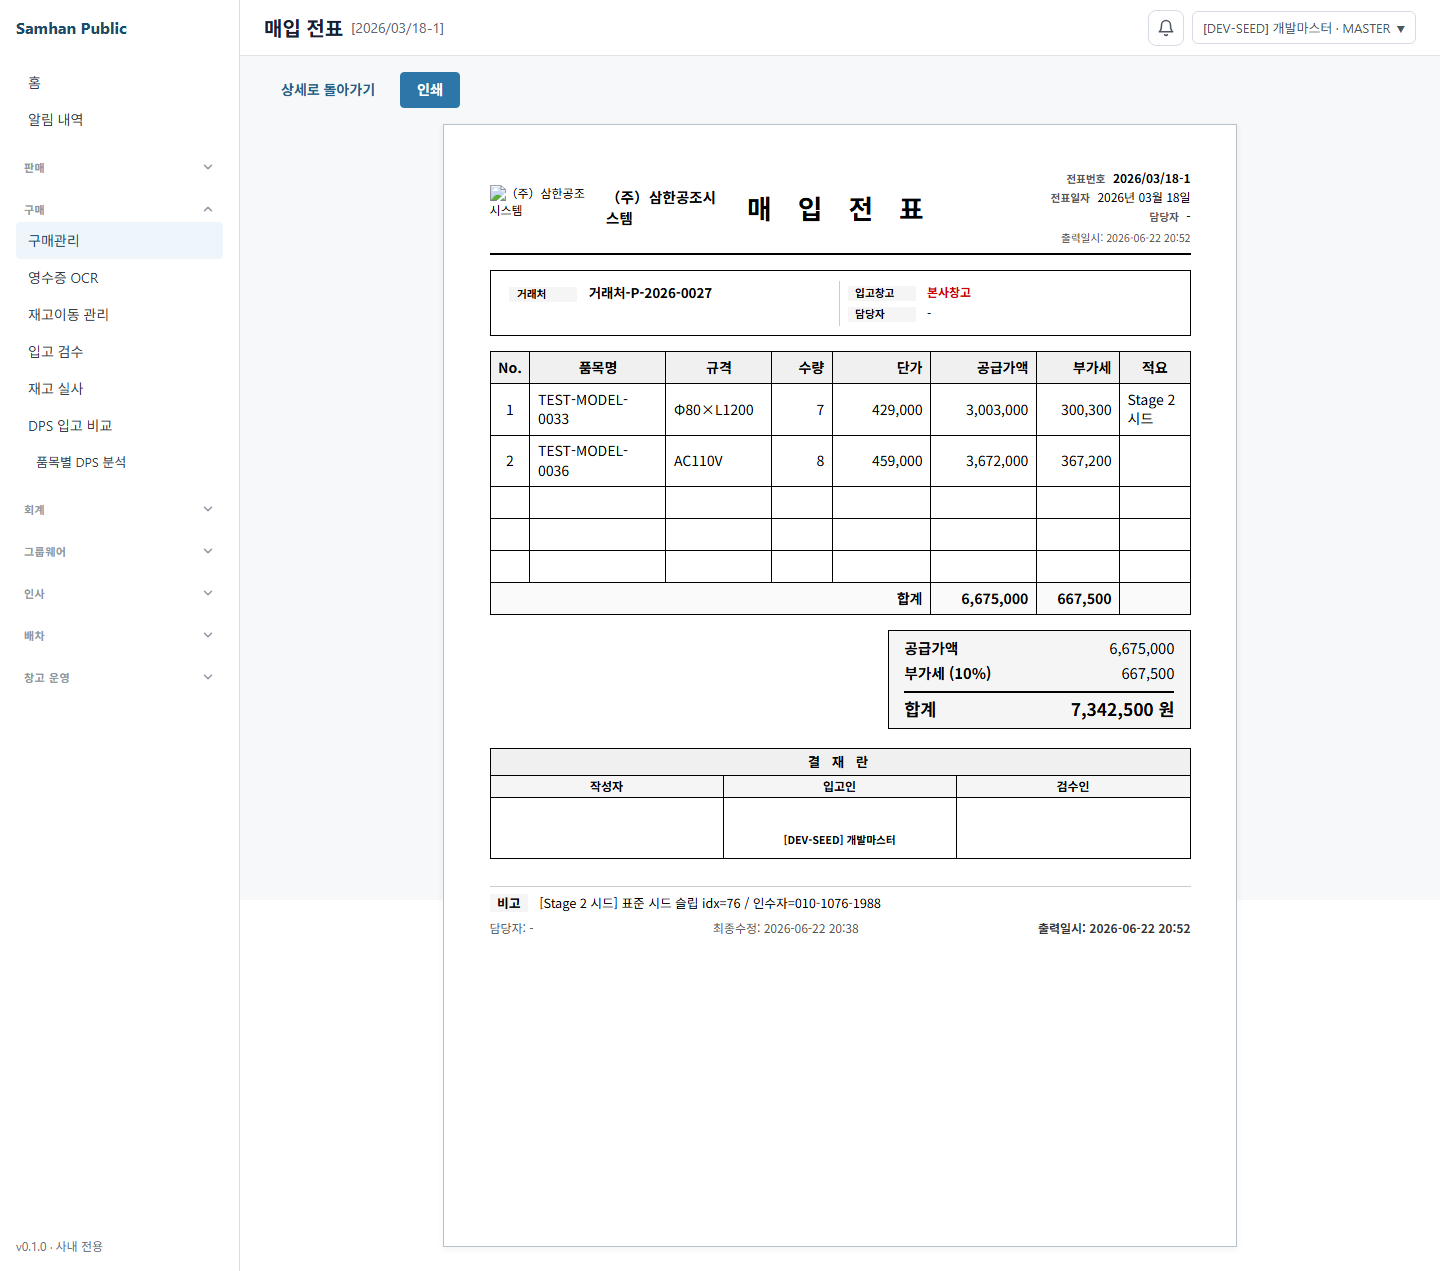
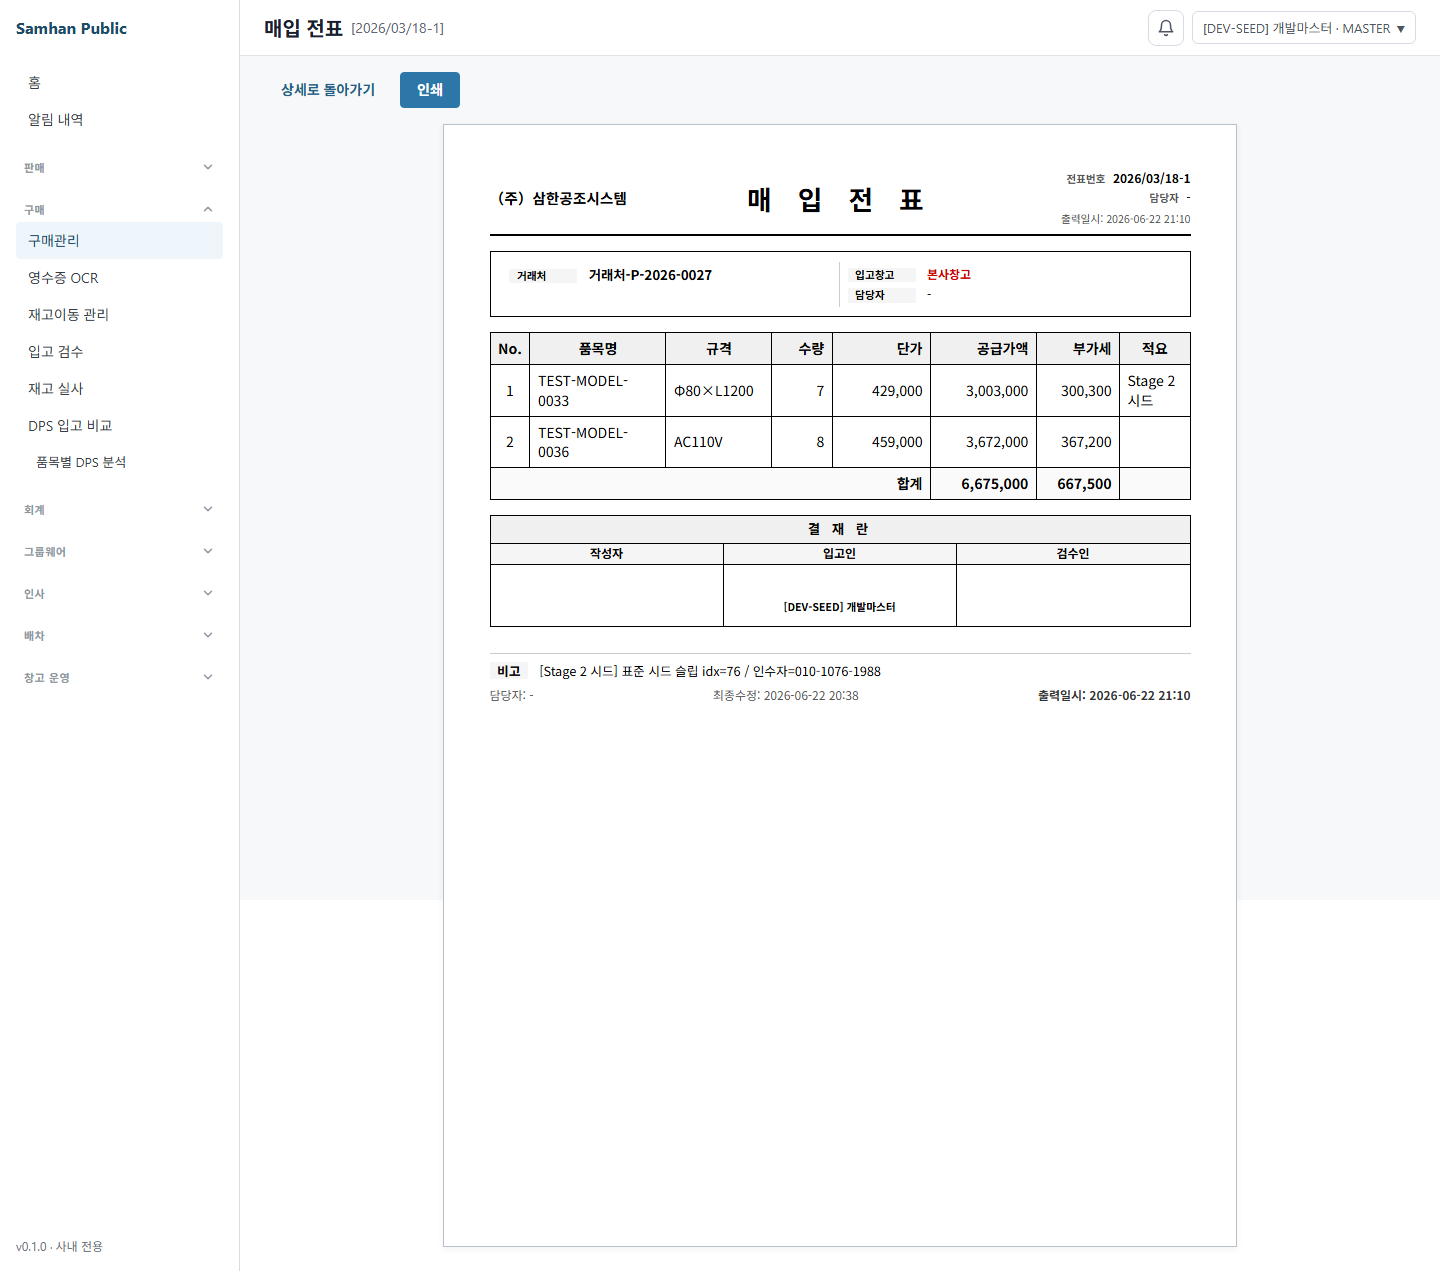
fix(desktop): 매입전표 인쇄 양식 정정(개발책임자 라이브 캡처 리뷰) — 군더더기 4건 제거
라이브 QA 캡처 리뷰 기반 인쇄 양식 정정([[print-design-iteration]]):
1. 좌측 상단 로고 이미지 제거 → 회사명 텍스트만((주)삼한공조시스템).
2. 전표일자 행 제거 — 전표번호에 날짜 이미 포함(중복).
3. 라인 테이블 빈 여백 행(최소 5행 패딩) 제거 — 실 품목 행만.
4. 하단 공급가액/부가세 합계 박스 제거 — 테이블 tfoot 합계만 유지.

미사용 정리: krDate import·total 변수·company.logoPath·CSS(purchase-print-logo/pad-row/totals*).
sp-08-5-5 정적 계약 스펙 갱신(5/5) + 라이브 재캡처(정정 양식 + 결재란 입고인/검수인 자동채움 유지).

Claude-Session: https://claude.ai/code/session_01G4qXNqztLYjH81Cc3s8Ffx

diff --git a/clients/desktop/src/renderer/print/PurchaseSlipPrintPage.tsx b/clients/desktop/src/renderer/print/PurchaseSlipPrintPage.tsx
@@ -6,11 +6,10 @@
  * (memory `feedback_print_design_iteration.md`).
  *
  * 구성 (A4 portrait 210mm × 297mm, padding 12mm):
- * - 상단 헤더: 좌(회사명/로고) / 중앙("매 입 전 표" 20pt 700) / 우(전표번호/일자/담당자) — 3열
- * - 전표 정보 행: 전표번호 / 전표일자 / 입고창고명 / 담당자
+ * - 상단 헤더: 좌(회사명) / 중앙("매 입 전 표" 20pt 700) / 우(전표번호/담당자/출력일시) — 3열
  * - 거래처 정보 영역: 좌(거래처명/사업자번호/대표자) + 우(입고창고/담당자/주소) — 2열 그리드
  * - 라인 테이블: No./품목명/규격/수량/단가/공급가액/부가세/적요 (8컬럼)
- * - 합계 영역: 공급가액 / 부가세 / 합계
+ * - 라인 테이블 tfoot 합계: 공급가액 / 부가세
  * - 결재란: SLIP_INBOUND 설정 기반 작성자 / 입고자 / 검수자 / 추가단계
  * - 푸터: 비고 / audit (createdBy + modifiedBy + updatedAt)
  *
@@ -29,7 +28,6 @@ import { stripSlipNoZeros } from '../utils/orderNo'
 import {
   PrintLayout,
   krw,
-  krDate,
   calcAmounts,
 } from './PrintLayout'
 import { nowPrintedAt, fmtDatetime } from './printUtils'
@@ -75,7 +73,7 @@ export function PurchaseSlipPrintPage() {
   const slip: SlipDetail = detailQuery.data
 
   const totalSupply = slip.lines.reduce((sum, l) => sum + Number(l.lineTotal), 0)
-  const { supply, vat, total } = calcAmounts(totalSupply)
+  const { supply, vat } = calcAmounts(totalSupply)
 
   const destWarehouseName =
     warehousesQuery.data?.find((w) => w.id === slip.destinationWarehouseId)?.name ?? '-'
@@ -90,14 +88,9 @@ export function PurchaseSlipPrintPage() {
     <PrintLayout paper="a4-portrait" backTo={`/purchases/${id}`}>
       <div className="purchase-print-page" data-testid="purchase-print-area">
 
-        {/* 상단 헤더 — 3열 그리드: 좌(로고+회사명) / 중앙(양식 제목) / 우(전표번호/일자/담당자) */}
+        {/* 상단 헤더 — 3열 그리드: 좌(회사명) / 중앙(양식 제목) / 우(전표번호/담당자/출력일시) */}
         <header className="purchase-print-header purchase-print-header-3col">
           <div className="purchase-print-header-left">
-            <img
-              className="purchase-print-logo"
-              src={company.logoPath}
-              alt={company.legalName}
-            />
             <span className="purchase-print-company-name">{company.legalName}</span>
           </div>
           <div className="purchase-print-header-center">
@@ -107,10 +100,6 @@ export function PurchaseSlipPrintPage() {
             <div className="purchase-print-header-meta-row">
               <span className="purchase-print-meta-label">전표번호</span>
               <span className="purchase-print-meta-value strong">{displaySlipNo}</span>
-            </div>
-            <div className="purchase-print-header-meta-row">
-              <span className="purchase-print-meta-label">전표일자</span>
-              <span className="purchase-print-meta-value">{krDate(slip.slipDate)}</span>
             </div>
             <div className="purchase-print-header-meta-row">
               <span className="purchase-print-meta-label">담당자</span>
@@ -194,19 +183,6 @@ export function PurchaseSlipPrintPage() {
                 </tr>
               )
             })}
-            {/* 최소 5행 유지 — 여백 행 */}
-            {Array.from({ length: Math.max(0, 5 - lines.length) }).map((_, i) => (
-              <tr key={`pad-${i}`} className="purchase-print-pad-row">
-                <td className="col-no">&nbsp;</td>
-                <td className="col-product">&nbsp;</td>
-                <td className="col-spec">&nbsp;</td>
-                <td className="col-qty">&nbsp;</td>
-                <td className="col-price">&nbsp;</td>
-                <td className="col-supply">&nbsp;</td>
-                <td className="col-vat">&nbsp;</td>
-                <td className="col-memo">&nbsp;</td>
-              </tr>
-            ))}
           </tbody>
           <tfoot>
             <tr>
@@ -217,22 +193,6 @@ export function PurchaseSlipPrintPage() {
             </tr>
           </tfoot>
         </table>
-
-        {/* 합계 영역 */}
-        <section className="purchase-print-totals">
-          <div className="purchase-print-totals-row">
-            <span className="purchase-print-totals-label">공급가액</span>
-            <span className="purchase-print-totals-value num">{krw(supply)}</span>
-          </div>
-          <div className="purchase-print-totals-row">
-            <span className="purchase-print-totals-label">부가세 (10%)</span>
-            <span className="purchase-print-totals-value num">{krw(vat)}</span>
-          </div>
-          <div className="purchase-print-totals-row strong">
-            <span className="purchase-print-totals-label">합계</span>
-            <span className="purchase-print-totals-value num">{krw(total)} 원</span>
-          </div>
-        </section>
 
         {/* 결재란 — SLIP_INBOUND 설정 구조 기반. 단계 수(N)에 맞춰 그리드 열 고정(auto-fit 줄바꿈 붕괴 방지, DispatchView 패턴). */}
         <section

diff --git a/clients/desktop/src/renderer/styles/global.css b/clients/desktop/src/renderer/styles/global.css
@@ -2635,13 +2635,6 @@ button {
   gap: 3mm;
 }
 
-.purchase-print-logo {
-  height: 12mm;
-  width: auto;
-  max-width: 50mm;
-  object-fit: contain;
-}
-
 .purchase-print-company-name {
   font-size: 11pt;
   font-weight: 700;
@@ -2832,10 +2825,6 @@ button {
 .purchase-print-table .num         { text-align: right; font-variant-numeric: tabular-nums; }
 .purchase-print-table .strong      { font-weight: 700; }
 
-.purchase-print-pad-row td {
-  color: transparent;
-}
-
 .purchase-print-table-totals-label {
   text-align: right;
   font-weight: 700;
@@ -2845,43 +2834,6 @@ button {
 .purchase-print-table tfoot td {
   background: #FAFAFA;
   font-weight: 700;
-}
-
-/* 합계 영역 — 우측 배치 (align-self + margin-left: auto) */
-.purchase-print-totals {
-  display: flex;
-  flex-direction: column;
-  gap: 1mm;
-  padding: 2mm 4mm;
-  background: #F5F5F5;
-  border: 1px solid #000;
-  margin-bottom: 2mm;
-  align-self: flex-end;
-  margin-left: auto;
-  min-width: 80mm;
-}
-
-.purchase-print-totals-row {
-  display: flex;
-  justify-content: space-between;
-  font-size: 11pt;
-  gap: 4mm;
-}
-
-.purchase-print-totals-row.strong {
-  font-weight: 700;
-  font-size: 13pt;
-  border-top: 1.5pt solid #000;
-  padding-top: 1mm;
-  margin-top: 1mm;
-}
-
-.purchase-print-totals-label {
-  font-weight: 600;
-}
-
-.purchase-print-totals-value.num {
-  font-variant-numeric: tabular-nums;
 }
 
 /* 매입 전표 결재란 — SLIP_INBOUND 설정 구조 기반 */
@@ -2972,10 +2924,6 @@ button {
   .purchase-print-page {
     -webkit-print-color-adjust: exact;
     print-color-adjust: exact;
-  }
-  .purchase-print-totals {
-    align-self: flex-end;
-    margin-left: auto;
   }
   .purchase-print-table tr {
     page-break-inside: avoid;

diff --git a/clients/desktop/playwright/sp-08-5-5-purchase-print-form/sp-08-5-5-purchase-print-form.spec.ts b/clients/desktop/playwright/sp-08-5-5-purchase-print-form/sp-08-5-5-purchase-print-form.spec.ts
@@ -118,12 +118,15 @@ test.describe('SP-08-5-5 매입 인쇄 양식 정적 계약', () => {
     // 라인 테이블 (tbody + SlipLineDetail)
     expect(printComponent).toMatch(/tbody|inbound-table|purchase-table/)
 
-    // 합계 섹션
-    const hasTotals =
-      printComponent.includes('inbound-totals') ||
-      printComponent.includes('purchase-totals') ||
+    // 합계는 하단 별도 박스가 아니라 라인 테이블 tfoot에만 유지한다.
+    const hasTableTotals =
+      printComponent.includes('purchase-print-table-totals-label') ||
       printComponent.includes('합계')
-    expect(hasTotals).toBeTruthy()
+    expect(hasTableTotals).toBeTruthy()
+    expect(printComponent).not.toContain('purchase-print-totals')
+    expect(printComponent).not.toContain('purchase-print-pad-row')
+    expect(printComponent).not.toContain('purchase-print-logo')
+    expect(printComponent).not.toContain('전표일자')
 
     // 결재란 (SLIP_INBOUND 설정 구조 기반)
     expect(printComponent).toContain('purchase-print-approval')
